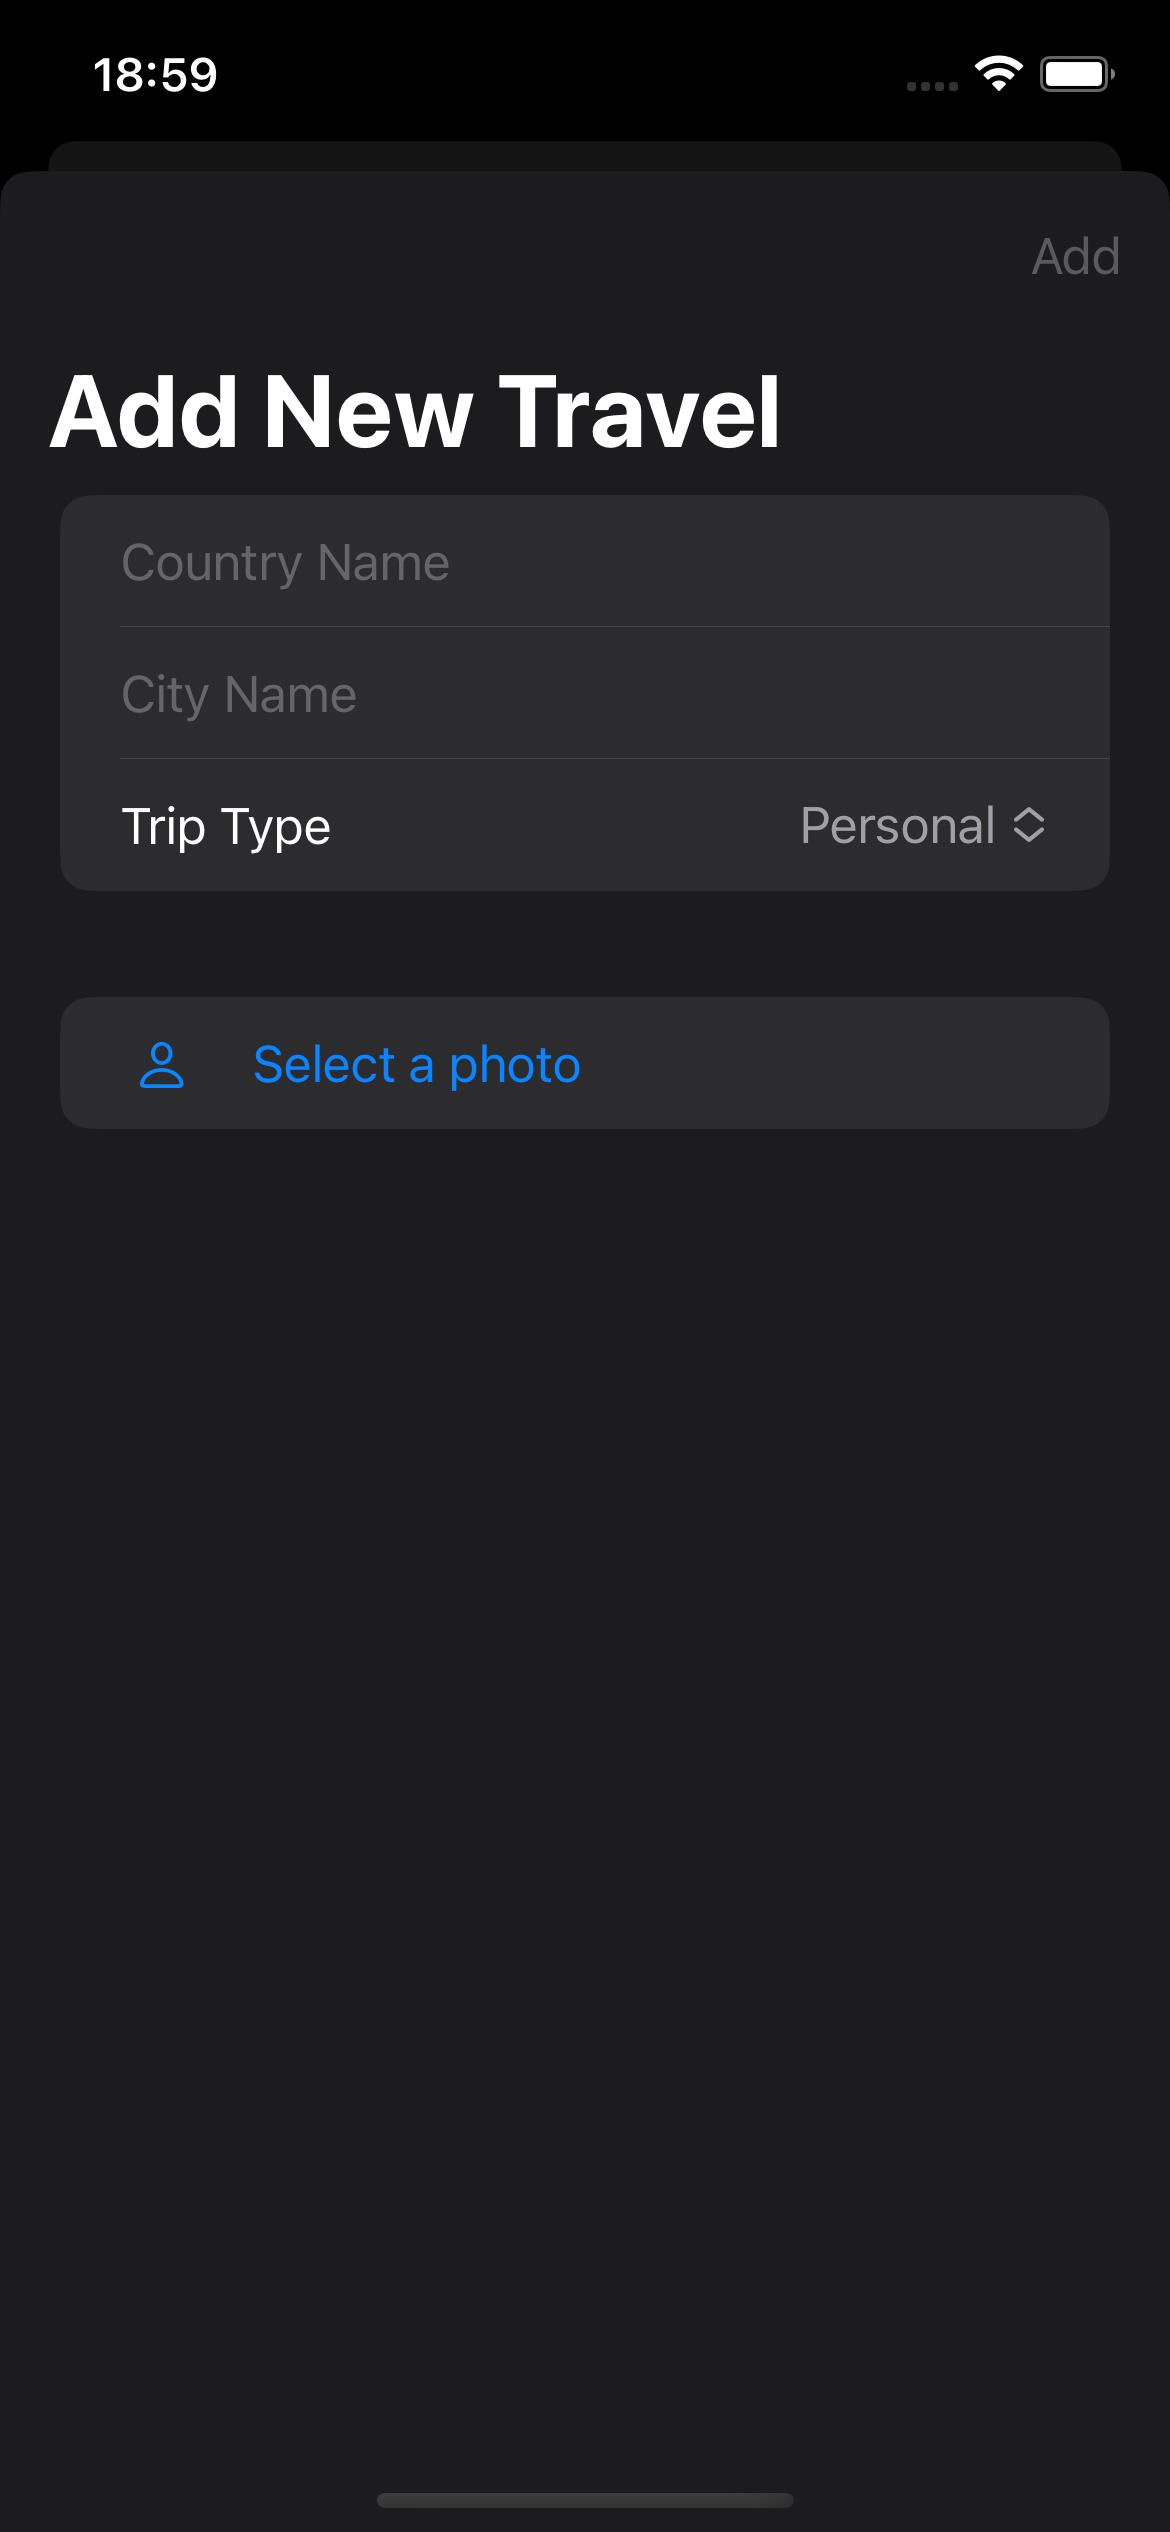
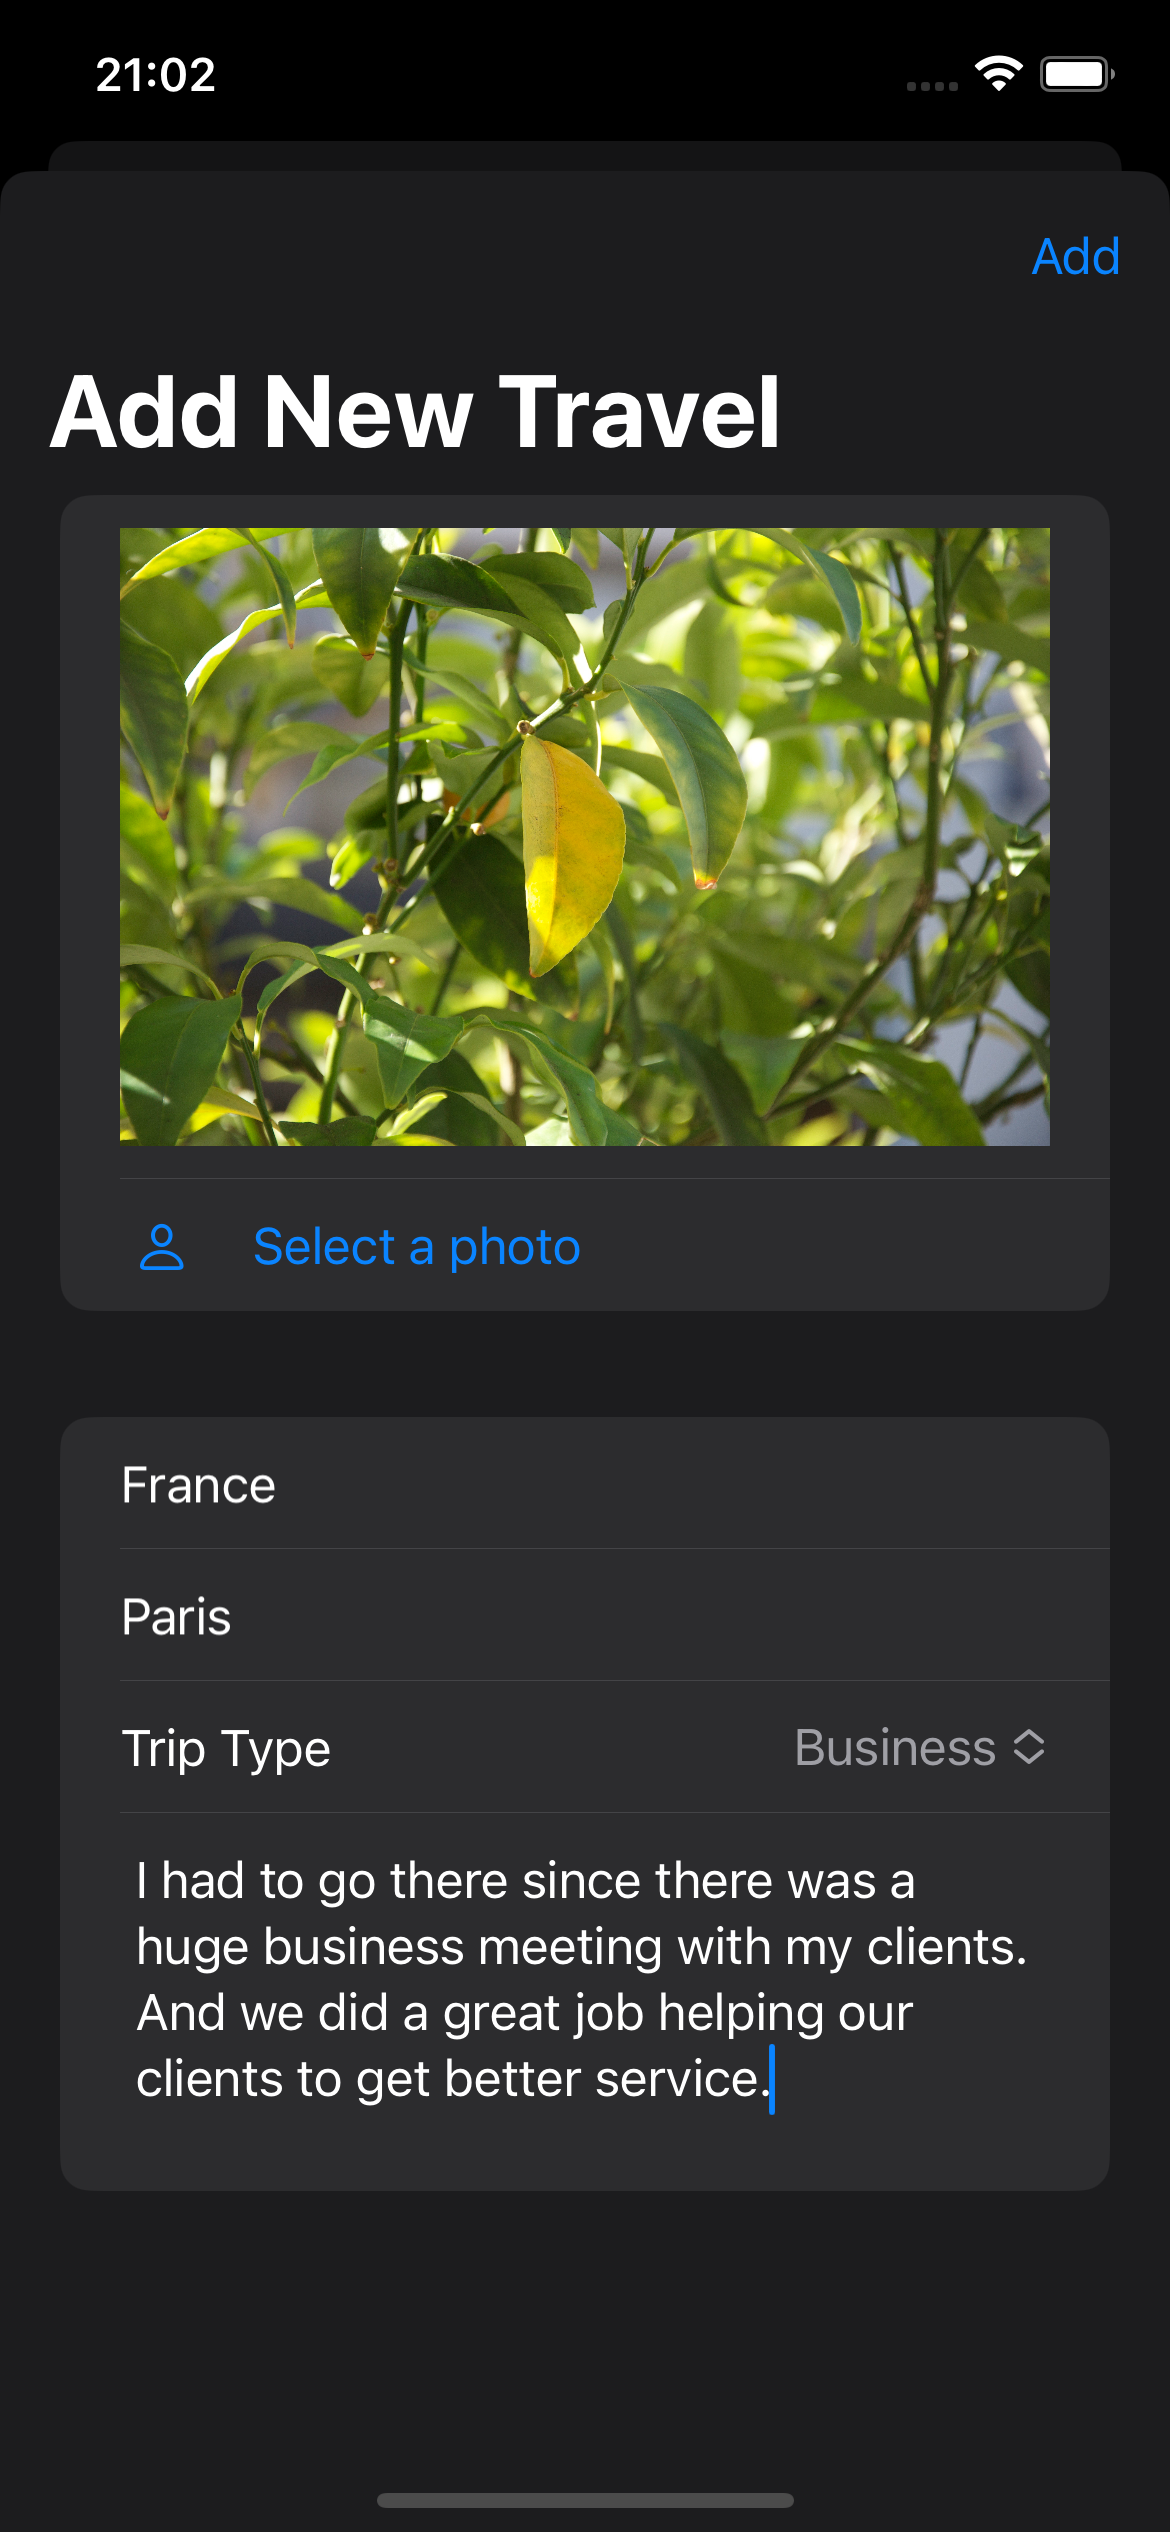
note is added

diff --git a/TravelJournal/Views/AddView.swift b/TravelJournal/Views/AddView.swift
@@ -15,6 +15,7 @@ struct AddView: View {
     @State private var country = ""
     @State private var city = ""
     @State private var type = "Personal"
+    @State private var note = "Note"
     @State private var selectedItem: PhotosPickerItem?
     @State private var selectedPhotoData: Data?
     
@@ -23,18 +24,6 @@ struct AddView: View {
     var body: some View {
         NavigationView {
             Form {
-                TextField("Country Name", text: $country)
-                    .disableAutocorrection(true)
-                
-                TextField("City Name", text: $city)
-                    .disableAutocorrection(true)
-                
-                Picker("Trip Type", selection: $type) {
-                    ForEach(types, id: \.self) {
-                        Text($0)
-                    }
-                }
-                
                 Section {
                     if let selectedPhotoData,
                        let image = UIImage(data: selectedPhotoData) {
@@ -55,11 +44,26 @@ struct AddView: View {
                     }
                 }
                 
+                TextField("Country Name", text: $country)
+                    .disableAutocorrection(true)
+                
+                TextField("City Name", text: $city)
+                    .disableAutocorrection(true)
+                
+                Picker("Trip Type", selection: $type) {
+                    ForEach(types, id: \.self) {
+                        Text($0)
+                    }
+                }
+                
+                TextEditor(text: $note)
+                    .disableAutocorrection(true)
+                
             }
             .navigationTitle("Add New Travel")
             .toolbar {
                 Button("Add") {
-                    let item = TravelItem(country: country, city: city, type: type, photo: selectedPhotoData)
+                    let item = TravelItem(country: country, city: city, type: type, photo: selectedPhotoData, note: note)
                     travel.items.append(item)
                     dismiss()
                     

diff --git a/TravelJournal/Views/TravelView.swift b/TravelJournal/Views/TravelView.swift
@@ -15,6 +15,7 @@ struct TravelView: View {
     @State private var country = ""
     @State private var city = ""
     @State private var type = ""
+    @State private var note = ""
     @State private var editType = false
     @State private var selectedItem: PhotosPickerItem?
     @State private var selectedPhotoData: Data?
@@ -56,6 +57,8 @@ struct TravelView: View {
                     Text("\(travelItem.country)")
                     Text("\(travelItem.city)")
                     Text("\(travelItem.type)")
+                    Text("\(travelItem.note)")
+                        .fixedSize(horizontal: false, vertical: true)
                 } else {
                     TextField("\(travelItem.country)", text: $country)
                     TextField("\(travelItem.city)", text: $city)
@@ -67,6 +70,8 @@ struct TravelView: View {
                     .onAppear() {
                         self.type = travelItem.type
                     }
+                    TextEditor(text: $note)
+                        .disableAutocorrection(true)
                 }
                 
             }   header: {
@@ -80,6 +85,7 @@ struct TravelView: View {
                     self.city = self.travelItem.city
                     self.type = self.travelItem.type
                     self.selectedPhotoData = self.travelItem.photo
+                    self.note = self.travelItem.note
                     self.editType.toggle()
                 } label: {
                     Image(systemName: "square.and.pencil")
@@ -90,6 +96,7 @@ struct TravelView: View {
                     travel.items[index].country = country
                     travel.items[index].city = city
                     travel.items[index].type = type
+                    travel.items[index].note = note
                     travel.items[index].photo = selectedPhotoData
                     self.editType.toggle()
                     dismiss()

diff --git a/TravelJournal/Structs/TravelItem.swift b/TravelJournal/Structs/TravelItem.swift
@@ -13,6 +13,7 @@ struct TravelItem: Identifiable, Codable {
     var city: String
     var type = "Business"
     var photo: Data?
+    var note: String
     
     // Explicitly define CodingKeys enum to silence the id warning
     enum CodingKeys: String, CodingKey {
@@ -21,13 +22,15 @@ struct TravelItem: Identifiable, Codable {
         case city
         case type
         case photo
+        case note
     }
     
-    init(country: String, city: String, type: String = "Business", photo: Data? = nil) {
+    init(country: String, city: String, type: String = "Business", photo: Data? = nil, note: String) {
         self.id = UUID()
         self.country = country
         self.city = city
         self.type = type
         self.photo = photo
+        self.note = note
     }
 }

diff --git a/README.md b/README.md
@@ -1,5 +1,5 @@
 # TravelJournal
-With this application, you can keep track of your business or personal travels. Add a picture to your travel and it'll help you to remember those days. The current version has only for different element for a travel. These are photo, country, city, and type("Business"/"Personal"). In the near future, the "note" part can be added to travels. With that, you're going to be able to jot down your travel story too.
+With this application, you can keep track of your business or personal travels. Add a picture to your travel and it'll help you to remember those days. The current version has only for different element for a travel. These are photo, country, city, and type("Business"/"Personal"). In the near future, the "note" part can be added to travels. With that, you're going to be able to jot down your travel story too. (Note part is added, you can type down whatever you like to that space!!!)
 
 ## App Features
 - Add new travel
